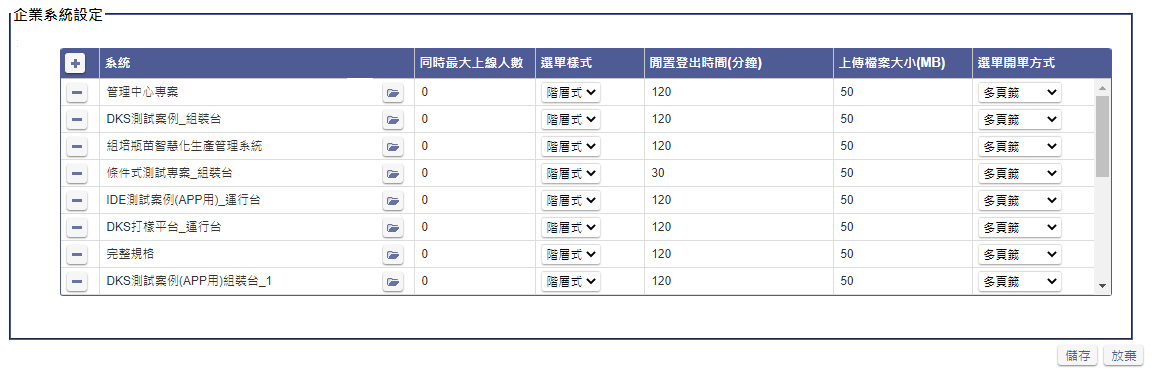
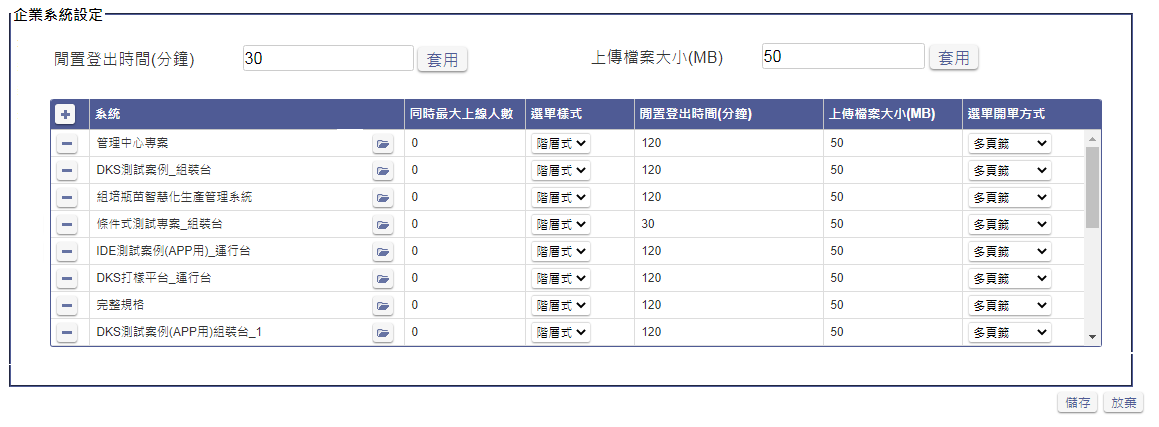
#8729 SA補充

Changed region(s): [[0.0311, 0.088, 0.9629, 0.8213], [0.0, 0.88, 0.994, 0.9973], [0.0, 0.0, 0.994, 0.0587]]

diff --git a/8.10.1/RTE/SITE/enterprisesystem/README.md b/8.10.1/RTE/SITE/enterprisesystem/README.md
@@ -4,8 +4,18 @@
     ![表單畫面]
 
 * 本表單主要在在設定企業可用系統
-* 待補
-
+* 欄位.閒置登出時間(分鐘) : 為企業使用者登入系統後的預設時間，當新增一個系統到企業下時，系統的閒置登出時間(分鐘)會依據此時間作為預設值。
+* 欄位.上傳檔案大小(MB) : 為企業使用者登入系統上傳檔案大小的限制，當新增一個系統到企業下時，系統的上傳檔案大小(MB)會依據此時間作為預設值。
+* 表格.系統 : 為此企業下可使用的系統清單
+    * 欄位.系統 : 開窗挑選可用的系統
+    * 欄位.同時上線最大人數 : 該企業使用此系統時，至多同時有幾個連線的限制
+    * 欄位.選單樣式 : 左側欄選單的選單樣式，僅生效於舊版首頁
+    * 欄位.閒置登出時間(分鐘) : 為企業使用者登入系統後的預設時間
+    * 欄位.上傳檔案大小(MB) : 為企業使用者登入系統上傳檔案大小的限制
+    * 欄位.選單開單方式 : 表示在首頁選單開啟表單的方式，共有以下幾種方式:
+        * 多頁簽 : 同一張表單可重複開啟
+        * 不重複頁簽 : 同一張表單不可重複開啟
+        * 單一頁簽 : 開單時會將目前表單關閉
 ### <div id="action">動作流程</div>
 * 待補
 
